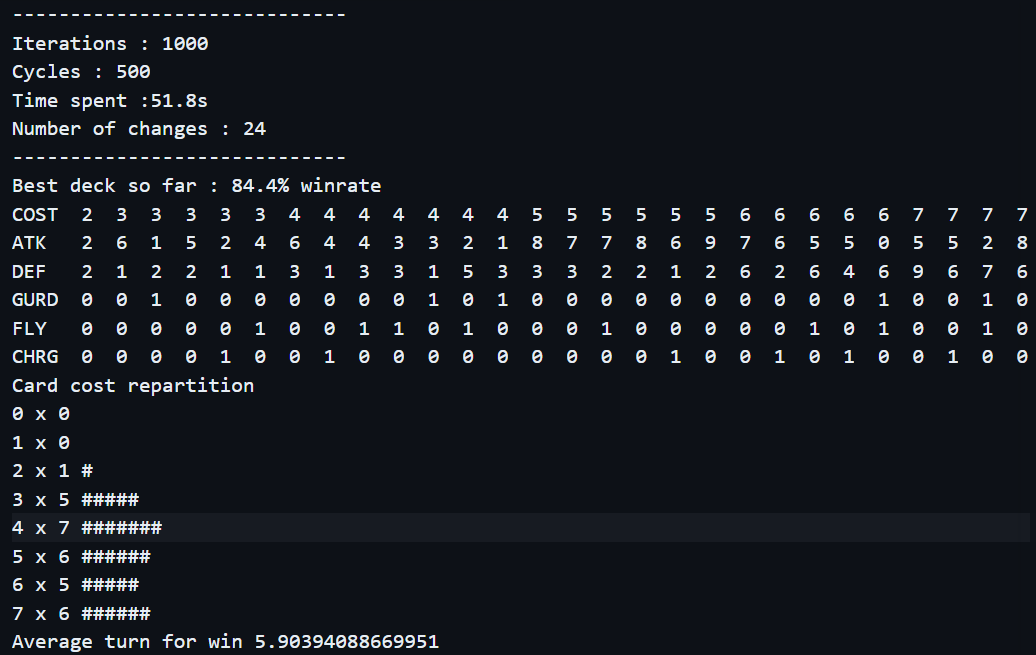
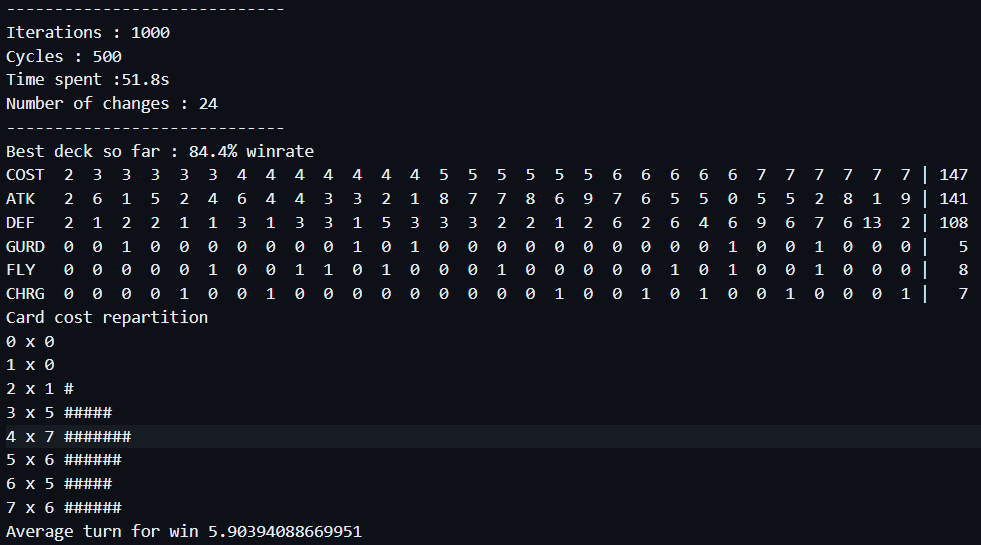
done monte carlo

Changed region(s): [[0.0, 0.0, 1.0, 0.9982]]

diff --git a/README.md b/README.md
@@ -1,41 +1,44 @@
 # enjmin card game
 
-## Goal
-The objective of this experiment is to try out a variety of optimization techniques, and see how far we can push a card deck 
+The objective of this experiment is to try out a variety of optimization techniques, and see how far we can push a card deck.  
 
-## Approaches
-- **Basic learning** : 1000 * 500 fight with substition, no skills
-- **Reinforced training** : fight against same deck after reaching 90% WR
-- **Rated Setlist** : Rate cards according to their impact in WR, priorize high rated cards when adding card to the deck 
-- **Setlist flag** : Remove bad cards from base set list
-- **Genetic** : Mutation + Crossover + Mutations
+- [enjmin card game](#enjmin-card-game)
+- [Game Rules / Settings](#game-rules--settings)
+  - [Player](#player)
+  - [Cards](#cards)
+  - [Game Rules](#game-rules)
+  - [Cards](#cards-1)
+  - [Step-by-step turn](#step-by-step-turn)
+- [Approaches](#approaches)
+- [Protocol](#protocol)
+- [Starting Deck](#starting-deck)
+- [Basic Learning / Monte Carlo](#basic-learning--monte-carlo)
+  - [Win rate evolution](#win-rate-evolution)
+  - [Number of turns](#number-of-turns)
+  - [Mana curve](#mana-curve)
+  - [Bonus: Impact of changing the rating score (WR/NBT rating)](#bonus-impact-of-changing-the-rating-score-wrnbt-rating)
+- [Rated Setlist](#rated-setlist)
+- [Reinforced training](#reinforced-training)
+  - [Rapport](#rapport)
 
-## Protocol
-We will run 500 games per iterations, with 1000 iterations each time,
-and will re-run iterations until the deck win-rate stabilizes.  
-
-We will reuse the same decks to best compare our results across different techniques. 
-
-For each improving iteration, we'll report the current iteration **count**, **win-rate**, **number of turn** (per win only), and **mana curve**.
-
-### Game Rules / Settings
-**Player**
+# Game Rules / Settings
+## Player
 - HP 20
 - 7 cards hand
 - 30 cards deck
 - 3 starting manas (+1 per turn) uncapped
 
-**Cards**
+## Cards
 - Cost
 - Monster wait one turn before attacking
 - ATK / DEF
 
-**Game Rules**
+## Game Rules
 - Draw a card
 - Place costest cards first
 - Cards always face (attacks enemy player)
 
-**Cards**
+## Cards
 - Cost : floor( (ATK + DEF) / 2.0 ) + skills cost
 - Max cost : 6
 - Skills:
@@ -44,37 +47,81 @@ For each improving iteration, we'll report the current iteration **count**, **wi
   - Charge (can attack when invoked)
 
 
-## Starting Deck
+## Step-by-step turn
+![](screenshots/turn-overview.png)
+
+# Approaches
+- **Basic learning** : 1000 * 500 fight with substition, no skills
+- **Reinforced training** : fight against same deck after reaching 90% WR
+- **Rated Setlist** : Rate cards according to their impact in WR, priorize high rated cards when adding card to the deck 
+- **Setlist flag** : Remove bad cards from base set list
+- **Genetic** : Mutation + Crossover + Mutations
+
+# Protocol
+We will run 500 games per iterations, with 1000 iterations each time,
+and will re-run iterations until the deck win-rate stabilizes.  
+
+For each iteration, we will add a random card from the card pool and replace a random card from the deck. If the resulting win-rate beats the current reference deck win-rate score, the current deck becomes the reference deck.  
+
+We will reuse the same decks to best compare our results across different techniques. 
+
+For each improving iteration, we'll report the current iteration **count**, **win-rate**, **number of turn** (per win), and **mana curve**.
+
+# Starting Deck
 Starting decks will be selected in a setting where our improved deck (player 1) is at a low win-rate value.  
 
-![](screenshots/starting-deck.png)
+![](screenshots/0-starting-deck.png)
 
-## Basic Learning / Monte Carlo
+# Basic Learning / Monte Carlo
+For the first approach, we will naively pick a random card each time.  
+The deck obtained after 1000 iterations ends up with a 84% win-rate over 500 games.  
+
 ![](screenshots/1-monte-carlo-simulation.png)
+
+## Win rate evolution
+The win-rate improves quickly and then stall at 75% win-rate around step 50.  
+
 ![](screenshots/1-monte-carlo-win-rate.png)
+
+## Number of turns
+The number of turns unsurprisingly follows the win-rate ratio and decrease over time as the deck improves.  
+
 ![](screenshots/1-monte-carlo-nbt.png)
+
+## Mana curve
+The most remarkable changes were the increase of 3 mana cost cards, while decreasing 5-6 and 7 seven cost cards.  
+
 ![](screenshots/1-monte-carlo-mana-curve.png)
 
+## Bonus: Impact of changing the rating score (WR/NBT rating)
+An important statistic in our simulation is the number of turn per win, aka the speed of our deck. We'll try to add this parameter in our simulation feedback loop, now basing our deck rating on `win_rate / avg_turn_per_win`.  
 
-## Rated Setlist
-![](screenshots/2-setlist-simulation.png)
-![](screenshots/2-setlist-win-rate.png)
-![](screenshots/2-setlist-nbt.png)
-![](screenshots/2-setlist-mana-curve.png)
+A direct result of entering a new parameter in the deck rating is a higher number of changes being accepted (46 changes against 24).  
+
+![](screenshots/1-monte-carlo-simulation-win-nbt.png)
+
+Regarding win-rate and nbt curves, changes are more consistant than before, with multiple plateaus.  
+
+![](screenshots/1-monte-carlo-win-nbt-graphs.png)
+
+Regarding mana curve, we end up with 1-2 and 3 cost cards being added to the deck.  
+
+![](screenshots/1-monte-carlo-mana-curve-win-nbt.png)
+
+# Rated Setlist
 
 We now rate added/removed cards according to their impact in win ratio.
 Here is the result over 1000 iterations :
-<!-- ![](screenshots/rated-setlist.png) -->
 
 This system sometimes achieves 100% winrate in under 600 iterations, according to the opponent deck.
 
-## Reinforced training
+# Reinforced training
 Opponent deck copy player deck when winrate is over 95%, for 2000 iterations.
 We observe a lot more changes happening during the simulation, and low cost cards are less present in the deck  
 
 ![](screenshots/screenshot-3-fight-against.png)
 
-### Rapport
+## Rapport
 - Description du protocole
 - Résultats step by step / analytics
   - nombre de tour
